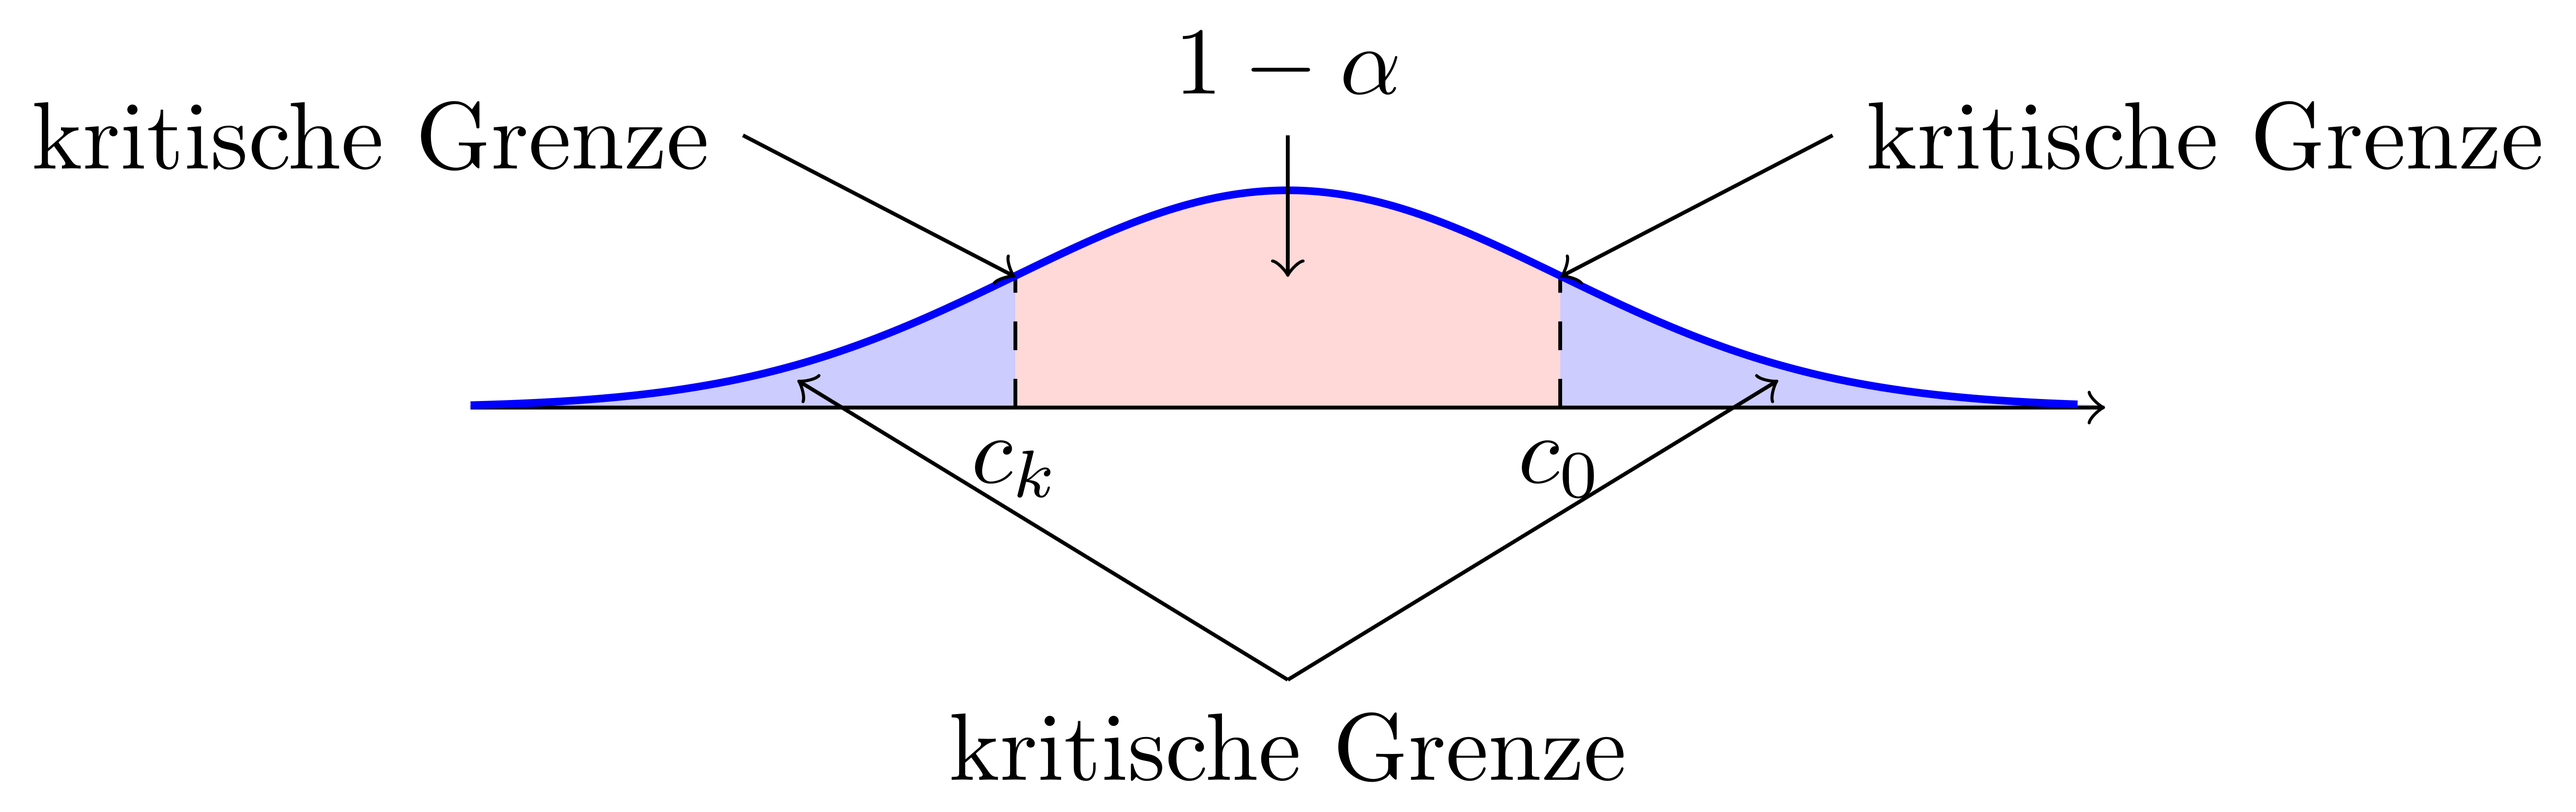
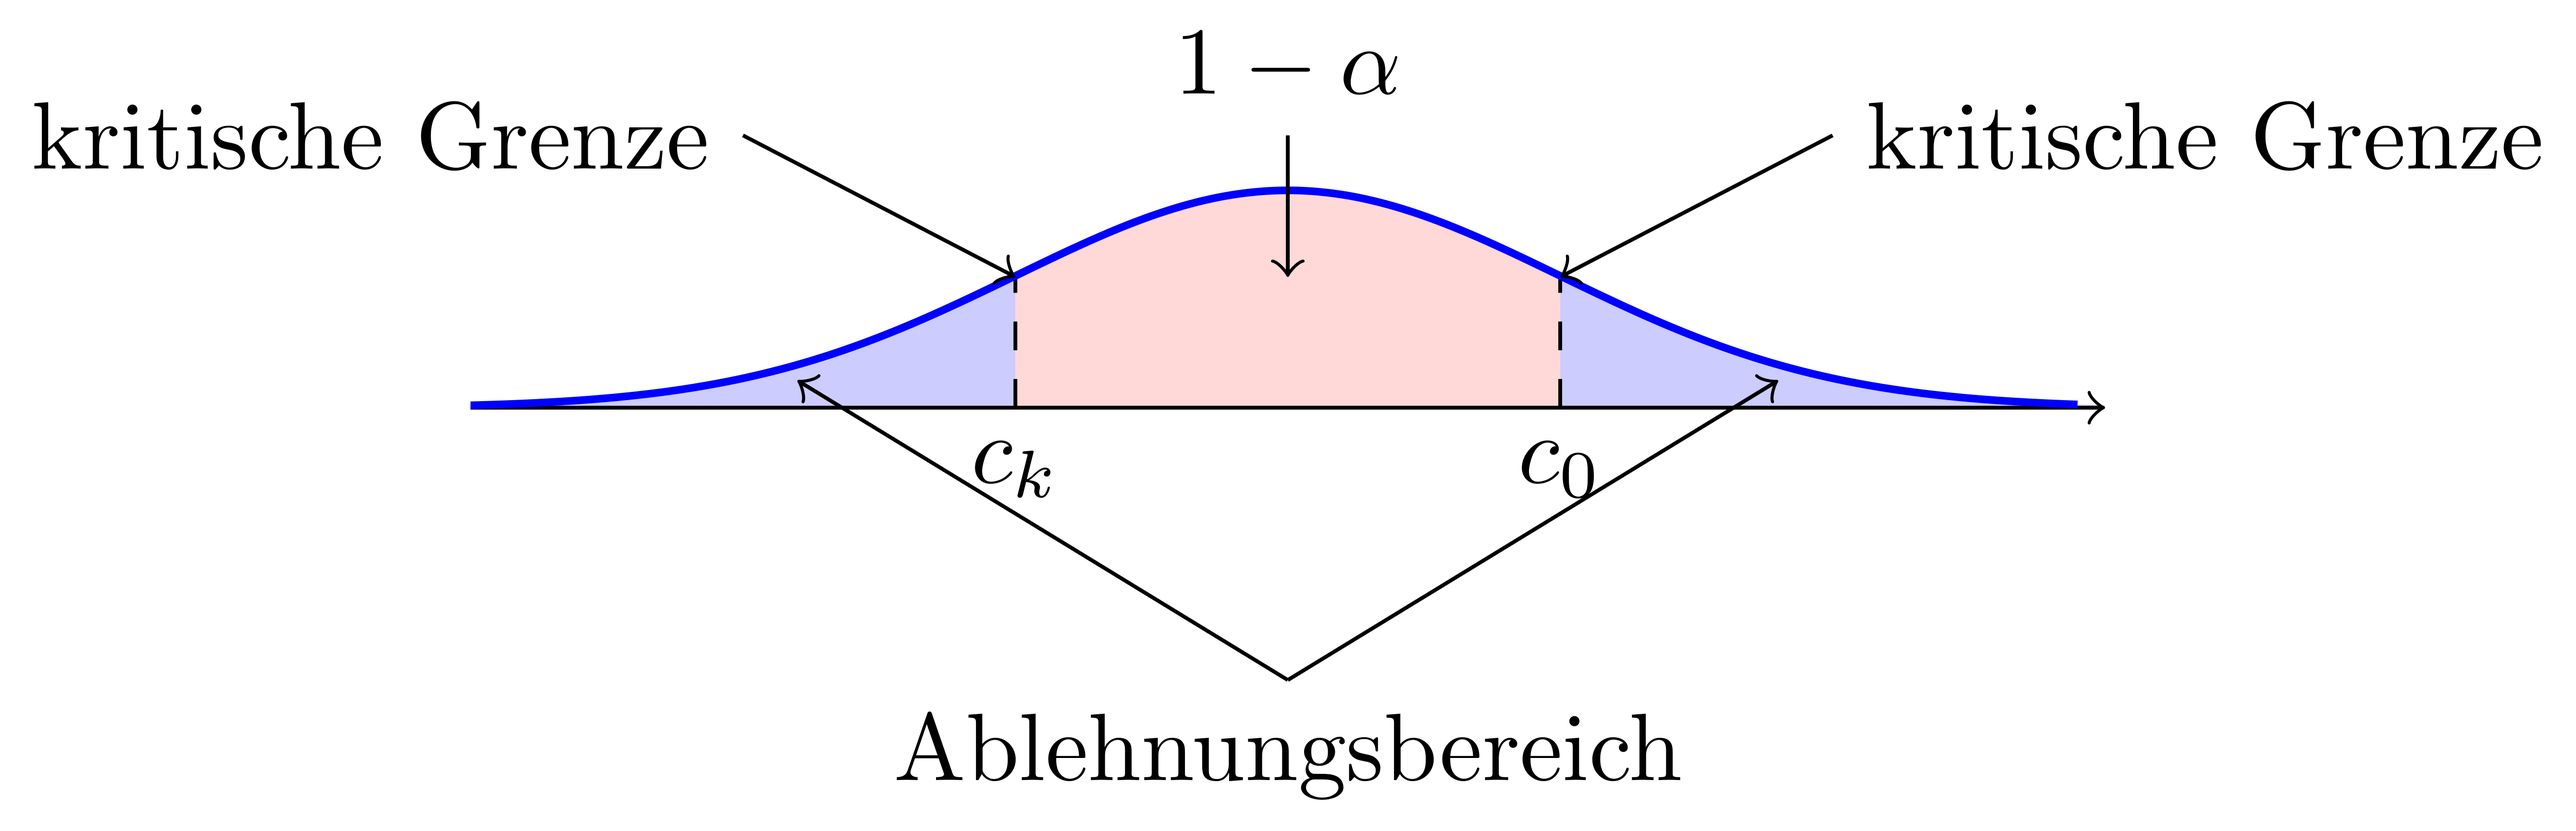
Fix image

diff --git a/VorlesungsNotizen/Statistik/TexGraphics/HypoTest.tex b/VorlesungsNotizen/Statistik/TexGraphics/HypoTest.tex
@@ -45,7 +45,7 @@
         \draw[<-] (0,0.24) -- (0,0.5) node[above]{$1 - \alpha$};
         \draw[<-] (1,0.24) -- (2,0.5) node[right]{kritische Grenze};
         \draw[<-] (-1,0.24) -- (-2,0.5) node[left]{kritische Grenze};
-        \draw[<-] (-1.8,0.05) -- (0,-0.5) node[below]{kritische Grenze};
+        \draw[<-] (-1.8,0.05) -- (0,-0.5) node[below]{Ablehnungsbereich};
         \draw[<-] (1.8,0.05) -- (0,-0.5);
     \end{tikzpicture}
 \end{document}
